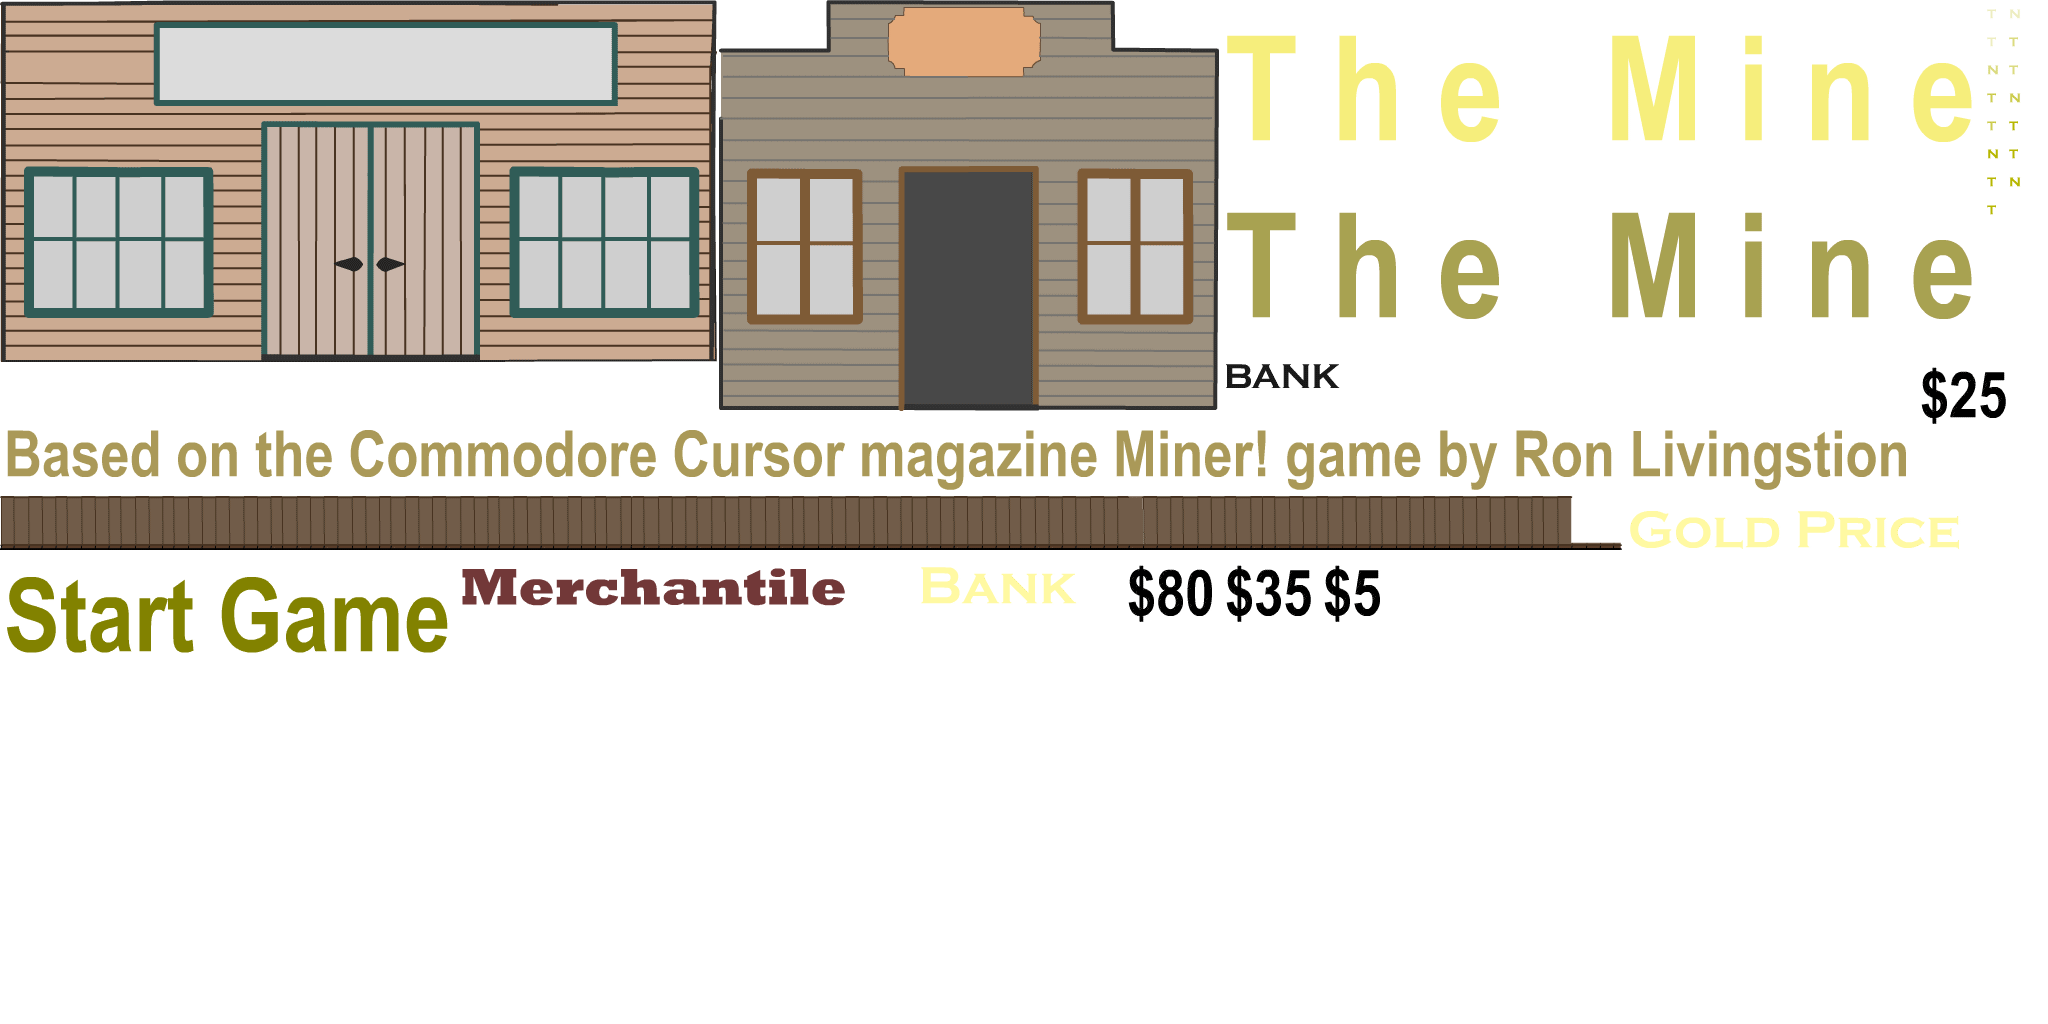
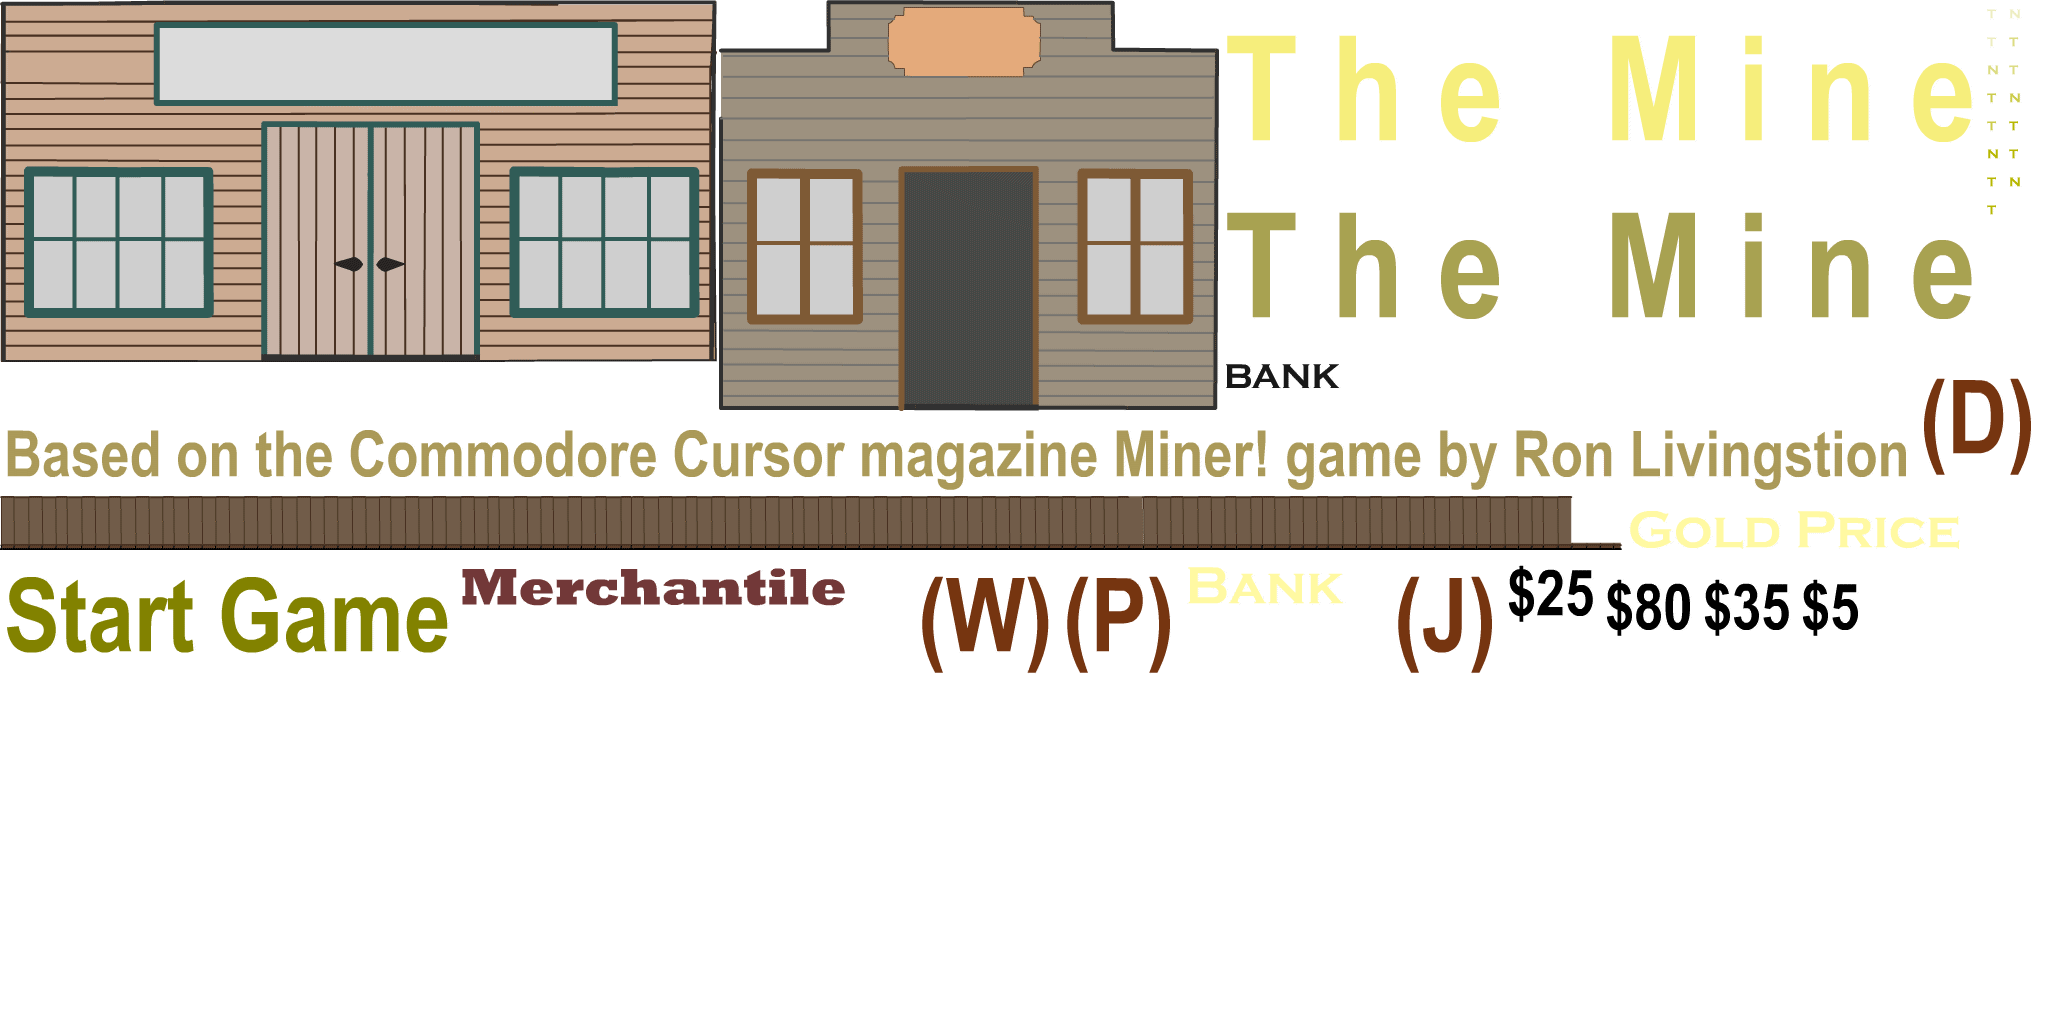
Add keypress

Changed region(s): [[0.4375, 0.5312, 0.9062, 0.6562], [0.9375, 0.3438, 1.0, 0.4688]]

diff --git a/themine.js b/themine.js
@@ -3,7 +3,7 @@
 var p; // shortcut to reference prototypes
 var lib={};var ss={};var img={};
 lib.ssMetadata = [
-		{name:"themine_atlas_1", frames: [[1983,0,20,26],[2005,0,20,26],[1983,28,20,26],[2005,28,20,26],[1983,56,20,26],[2005,56,20,26],[1983,84,20,26],[2005,84,20,26],[1983,112,20,26],[2005,112,20,26],[1983,140,20,26],[2005,140,20,26],[1983,168,20,26],[2005,168,20,26],[1983,196,20,26],[0,496,1622,54],[1221,354,122,45],[719,0,500,411],[457,552,455,68],[0,0,717,362],[0,413,1914,81],[1221,0,760,175],[1221,177,760,175],[914,552,207,68],[1624,496,403,68],[0,552,455,125],[1916,354,96,81],[1319,552,67,81],[1123,552,96,81],[1221,552,96,81]]}
+		{name:"themine_atlas_1", frames: [[1983,0,20,26],[2005,0,20,26],[1983,28,20,26],[2005,28,20,26],[1983,56,20,26],[2005,56,20,26],[1983,84,20,26],[2005,84,20,26],[1983,112,20,26],[2005,112,20,26],[1983,140,20,26],[2005,140,20,26],[1983,168,20,26],[2005,168,20,26],[1983,196,20,26],[0,496,1622,54],[1221,354,122,45],[719,0,500,411],[457,552,455,68],[0,0,717,362],[0,413,1914,81],[1221,0,760,175],[1221,177,760,175],[1916,354,124,125],[1390,552,111,125],[914,552,143,125],[1059,552,120,125],[1181,552,207,68],[1624,496,403,68],[0,552,455,125],[1503,552,96,81],[1797,566,67,81],[1601,566,96,81],[1699,566,96,81]]}
 ];
 
 
@@ -206,51 +206,79 @@ p.nominalBounds = new cjs.Rectangle(0,0,3362,158);
 
 
 
-(lib.CachedBmp_7 = function() {
+(lib.CachedBmp_37 = function() {
 	this.initialize(ss["themine_atlas_1"]);
 	this.gotoAndStop(23);
 }).prototype = p = new cjs.Sprite();
 
 
 
-(lib.CachedBmp_6 = function() {
+(lib.CachedBmp_36 = function() {
 	this.initialize(ss["themine_atlas_1"]);
 	this.gotoAndStop(24);
 }).prototype = p = new cjs.Sprite();
 
 
 
-(lib.CachedBmp_5 = function() {
+(lib.CachedBmp_35 = function() {
 	this.initialize(ss["themine_atlas_1"]);
 	this.gotoAndStop(25);
 }).prototype = p = new cjs.Sprite();
 
 
 
-(lib.CachedBmp_4 = function() {
+(lib.CachedBmp_34 = function() {
 	this.initialize(ss["themine_atlas_1"]);
 	this.gotoAndStop(26);
 }).prototype = p = new cjs.Sprite();
 
 
 
-(lib.CachedBmp_3 = function() {
+(lib.CachedBmp_7 = function() {
 	this.initialize(ss["themine_atlas_1"]);
 	this.gotoAndStop(27);
 }).prototype = p = new cjs.Sprite();
 
 
 
-(lib.CachedBmp_2 = function() {
+(lib.CachedBmp_6 = function() {
 	this.initialize(ss["themine_atlas_1"]);
 	this.gotoAndStop(28);
 }).prototype = p = new cjs.Sprite();
 
 
 
-(lib.CachedBmp_1 = function() {
+(lib.CachedBmp_5 = function() {
 	this.initialize(ss["themine_atlas_1"]);
 	this.gotoAndStop(29);
+}).prototype = p = new cjs.Sprite();
+
+
+
+(lib.CachedBmp_4 = function() {
+	this.initialize(ss["themine_atlas_1"]);
+	this.gotoAndStop(30);
+}).prototype = p = new cjs.Sprite();
+
+
+
+(lib.CachedBmp_3 = function() {
+	this.initialize(ss["themine_atlas_1"]);
+	this.gotoAndStop(31);
+}).prototype = p = new cjs.Sprite();
+
+
+
+(lib.CachedBmp_2 = function() {
+	this.initialize(ss["themine_atlas_1"]);
+	this.gotoAndStop(32);
+}).prototype = p = new cjs.Sprite();
+
+
+
+(lib.CachedBmp_1 = function() {
+	this.initialize(ss["themine_atlas_1"]);
+	this.gotoAndStop(33);
 }).prototype = p = new cjs.Sprite();
 // helper functions:
 
@@ -4641,6 +4669,18 @@ if (reversed == null) { reversed = false; }
 	this.timeline.addTween(cjs.Tween.get({}).to({state:[{t:this.btnPickaxe},{t:this.btnPump},{t:this.btnJackhammer},{t:this.btnDynamite}]}).wait(1));
 
 	// Text
+	this.instance = new lib.CachedBmp_37();
+	this.instance.setTransform(380.6,22,0.5,0.5);
+
+	this.instance_1 = new lib.CachedBmp_36();
+	this.instance_1.setTransform(378.6,-74,0.5,0.5);
+
+	this.instance_2 = new lib.CachedBmp_35();
+	this.instance_2.setTransform(372.6,-168.55,0.5,0.5);
+
+	this.instance_3 = new lib.CachedBmp_34();
+	this.instance_3.setTransform(378.6,-250.1,0.5,0.5);
+
 	this.text = new cjs.Text(" $1,000", "27px 'Copperplate Gothic Bold'", "#FFFFFF");
 	this.text.lineHeight = 32;
 	this.text.lineWidth = 138;
@@ -4653,22 +4693,22 @@ if (reversed == null) { reversed = false; }
 	this.text_1.parent = this;
 	this.text_1.setTransform(-227,213.15);
 
-	this.instance = new lib.CachedBmp_7();
-	this.instance.setTransform(222.55,170,0.5,0.5);
+	this.instance_4 = new lib.CachedBmp_7();
+	this.instance_4.setTransform(222.55,170,0.5,0.5);
 
-	this.instance_1 = new lib.CachedBmp_6();
-	this.instance_1.setTransform(-267.75,170.05,0.5,0.5);
+	this.instance_5 = new lib.CachedBmp_6();
+	this.instance_5.setTransform(-267.75,170.05,0.5,0.5);
 
-	this.timeline.addTween(cjs.Tween.get({}).to({state:[{t:this.instance_1},{t:this.instance},{t:this.text_1},{t:this.text}]}).wait(1));
+	this.timeline.addTween(cjs.Tween.get({}).to({state:[{t:this.instance_5},{t:this.instance_4},{t:this.text_1},{t:this.text},{t:this.instance_3},{t:this.instance_2},{t:this.instance_1},{t:this.instance}]}).wait(1));
 
 	// Signs
-	this.instance_2 = new lib.Signs_mc();
-	this.instance_2.setTransform(331,-27.2);
+	this.instance_6 = new lib.Signs_mc();
+	this.instance_6.setTransform(331,-27.2);
 
-	this.instance_3 = new lib.Signs_mc();
-	this.instance_3.setTransform(-107.5,-27.2);
+	this.instance_7 = new lib.Signs_mc();
+	this.instance_7.setTransform(-107.5,-27.2);
 
-	this.timeline.addTween(cjs.Tween.get({}).to({state:[{t:this.instance_3},{t:this.instance_2}]}).wait(1));
+	this.timeline.addTween(cjs.Tween.get({}).to({state:[{t:this.instance_7},{t:this.instance_6}]}).wait(1));
 
 	// Ground
 	this.shape_1 = new cjs.Shape();

diff --git a/js/control.js b/js/control.js
@@ -68,10 +68,13 @@ function disableButtons() {
 	gPad.btnPump.off('click', lPump);
 	gPad.btnJackhammer.off('click', lJack);
 	gPad.btnDynamite.off('click', lDyn);
+	$(document).off('keypress');
 }
 
 function enableButtons() {
 	btnClicked = false;
+	
+	//button events
 	lUp = gPad.btnUp.on('click', buttonClick, null, false, 'up');
 	lRight = gPad.btnRight.on('click', buttonClick, null, false, 'right');
 	lDown = gPad.btnDown.on('click', buttonClick, null, false, 'down');
@@ -81,6 +84,20 @@ function enableButtons() {
 	lPump = gPad.btnPump.on('click', setSelected, null, false, 'pump');
 	lJack = gPad.btnJackhammer.on('click', setSelected, null, false, 'jackhammer');
 	lDyn = gPad.btnDynamite.on('click', setSelected, null, false, 'dynamite');
+	
+	// keyboard events
+	$(document).on('keydown', function(e) {
+		var key = e.which;
+		if(key == 38) { buttonClick(e, 'up'); }
+		if(key == 39) { buttonClick(e, 'right'); }
+		if(key == 40) { buttonClick(e, 'down'); }
+		if(key == 37) { buttonClick(e, 'left'); }
+		if(key == 32) { stopButton = true; }
+		if(key == 80) { setSelected(e, 'pickaxe'); }
+		if(key == 87) { setSelected(e, 'pump'); }
+		if(key == 74) { setSelected(e, 'jackhammer'); }
+		if(key == 68) { setSelected(e, 'dynamite'); }
+	});
 }
 
 function setSelected(e, btn) {
